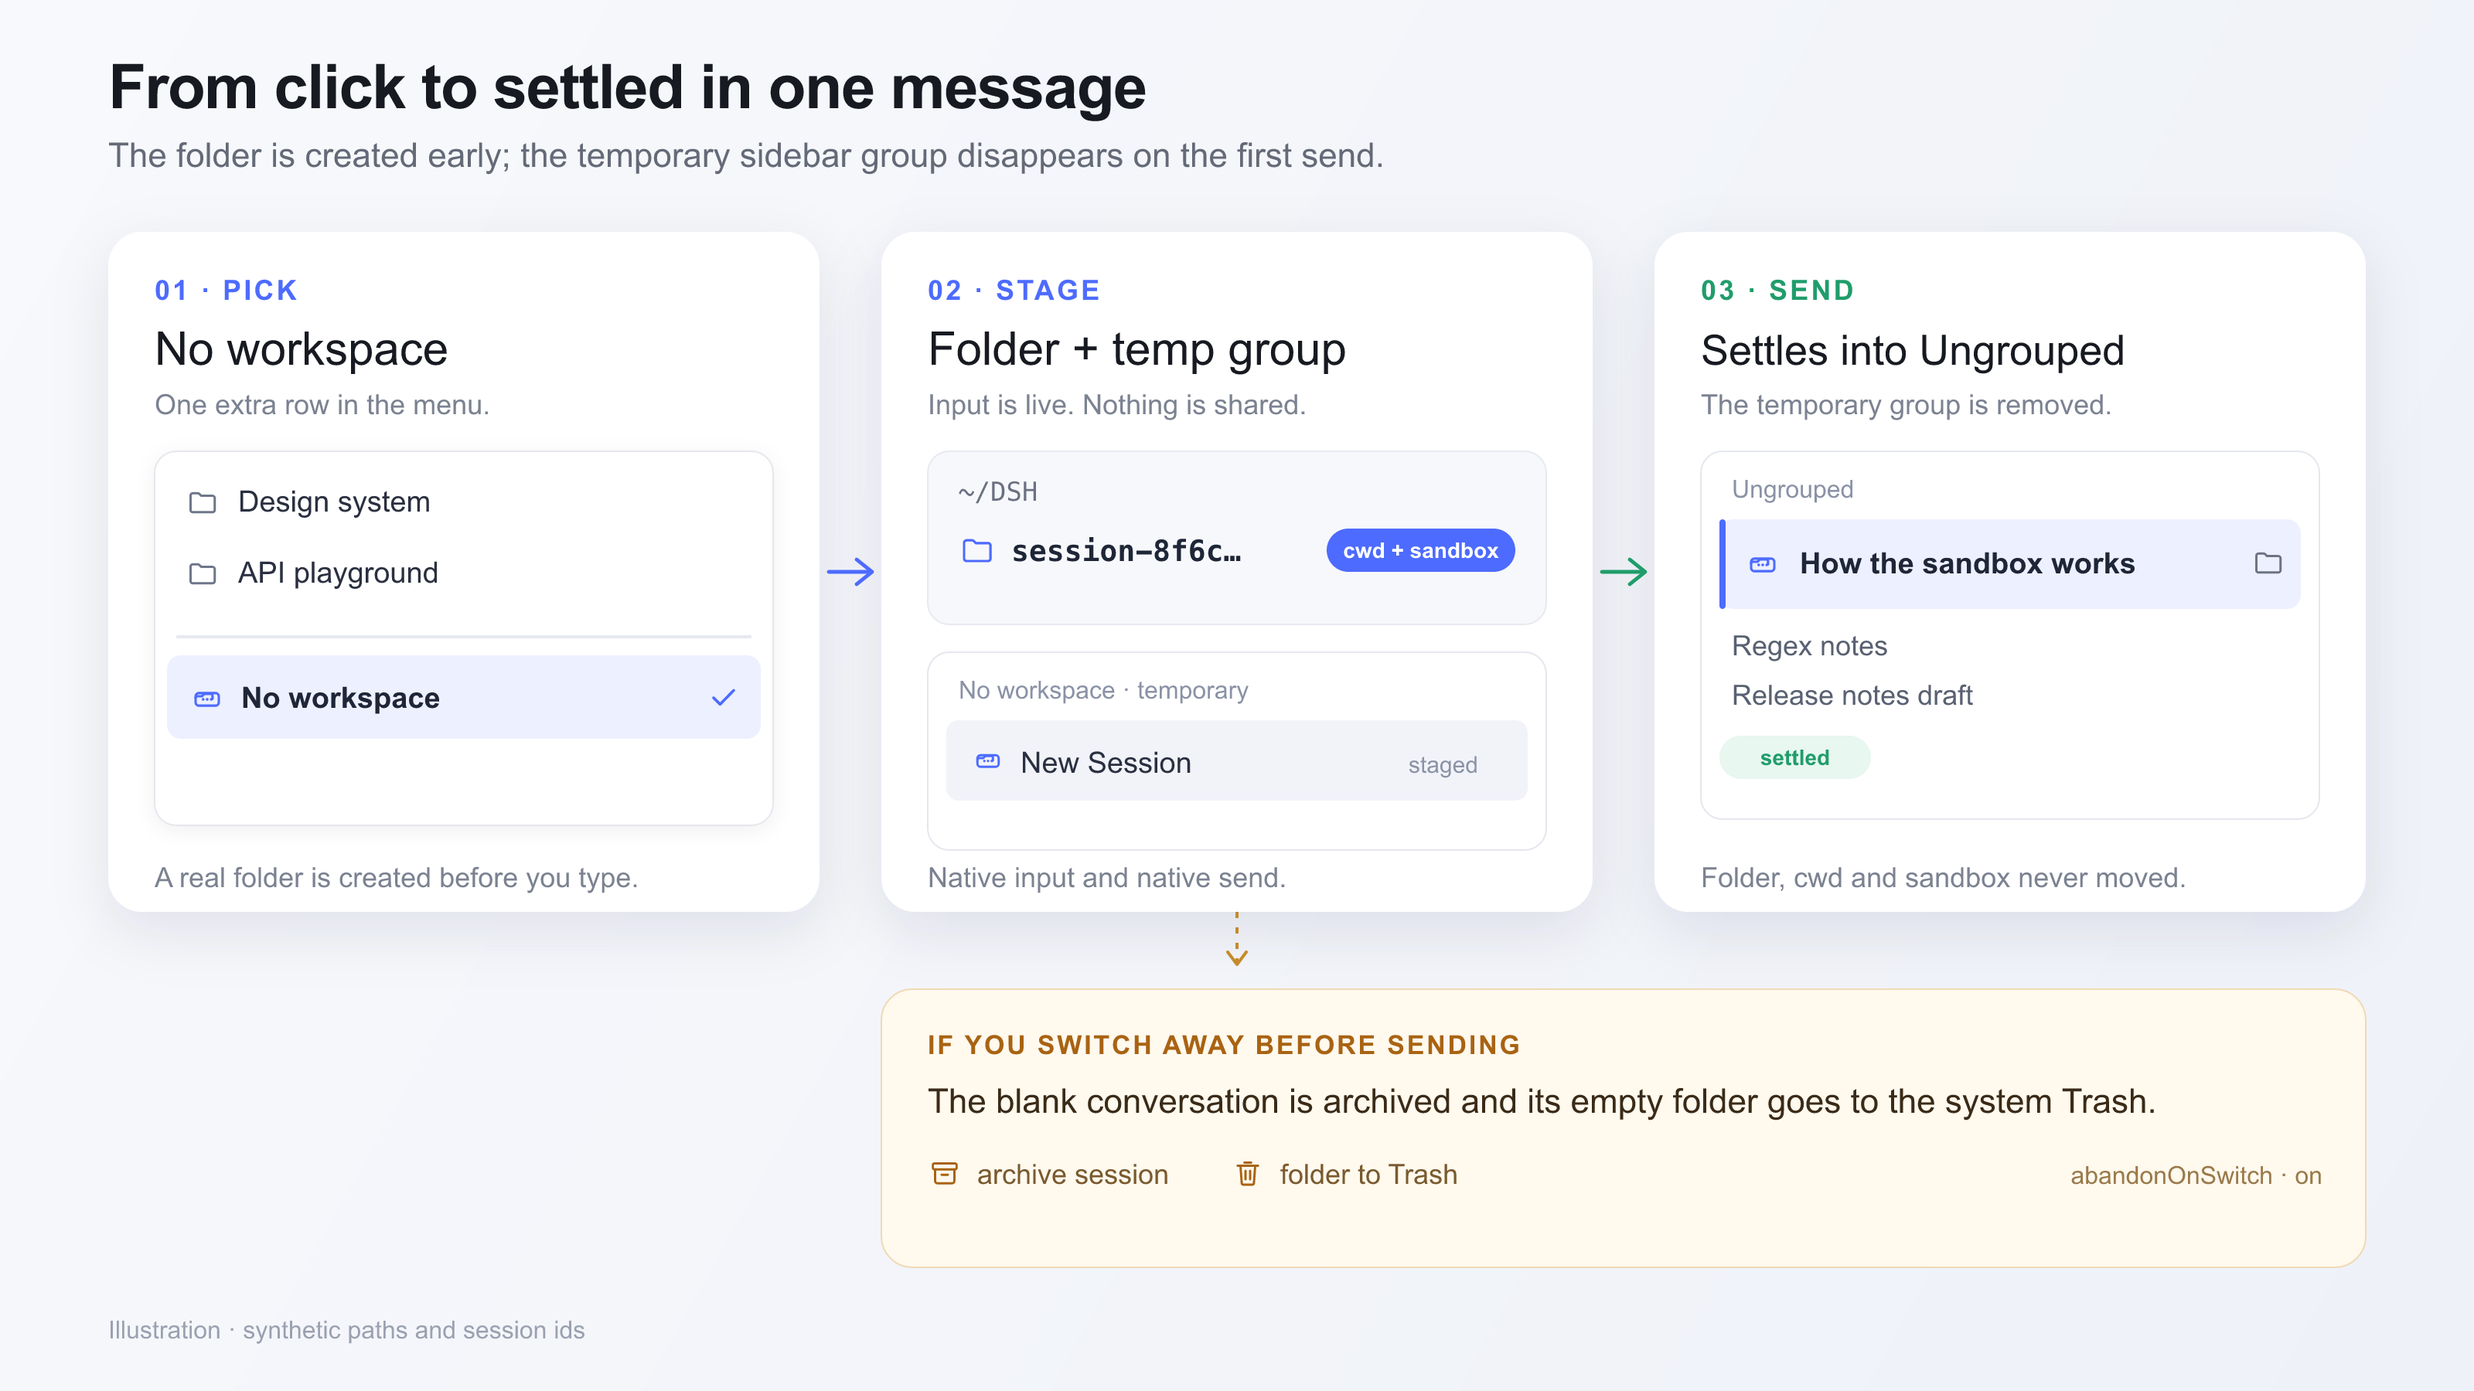
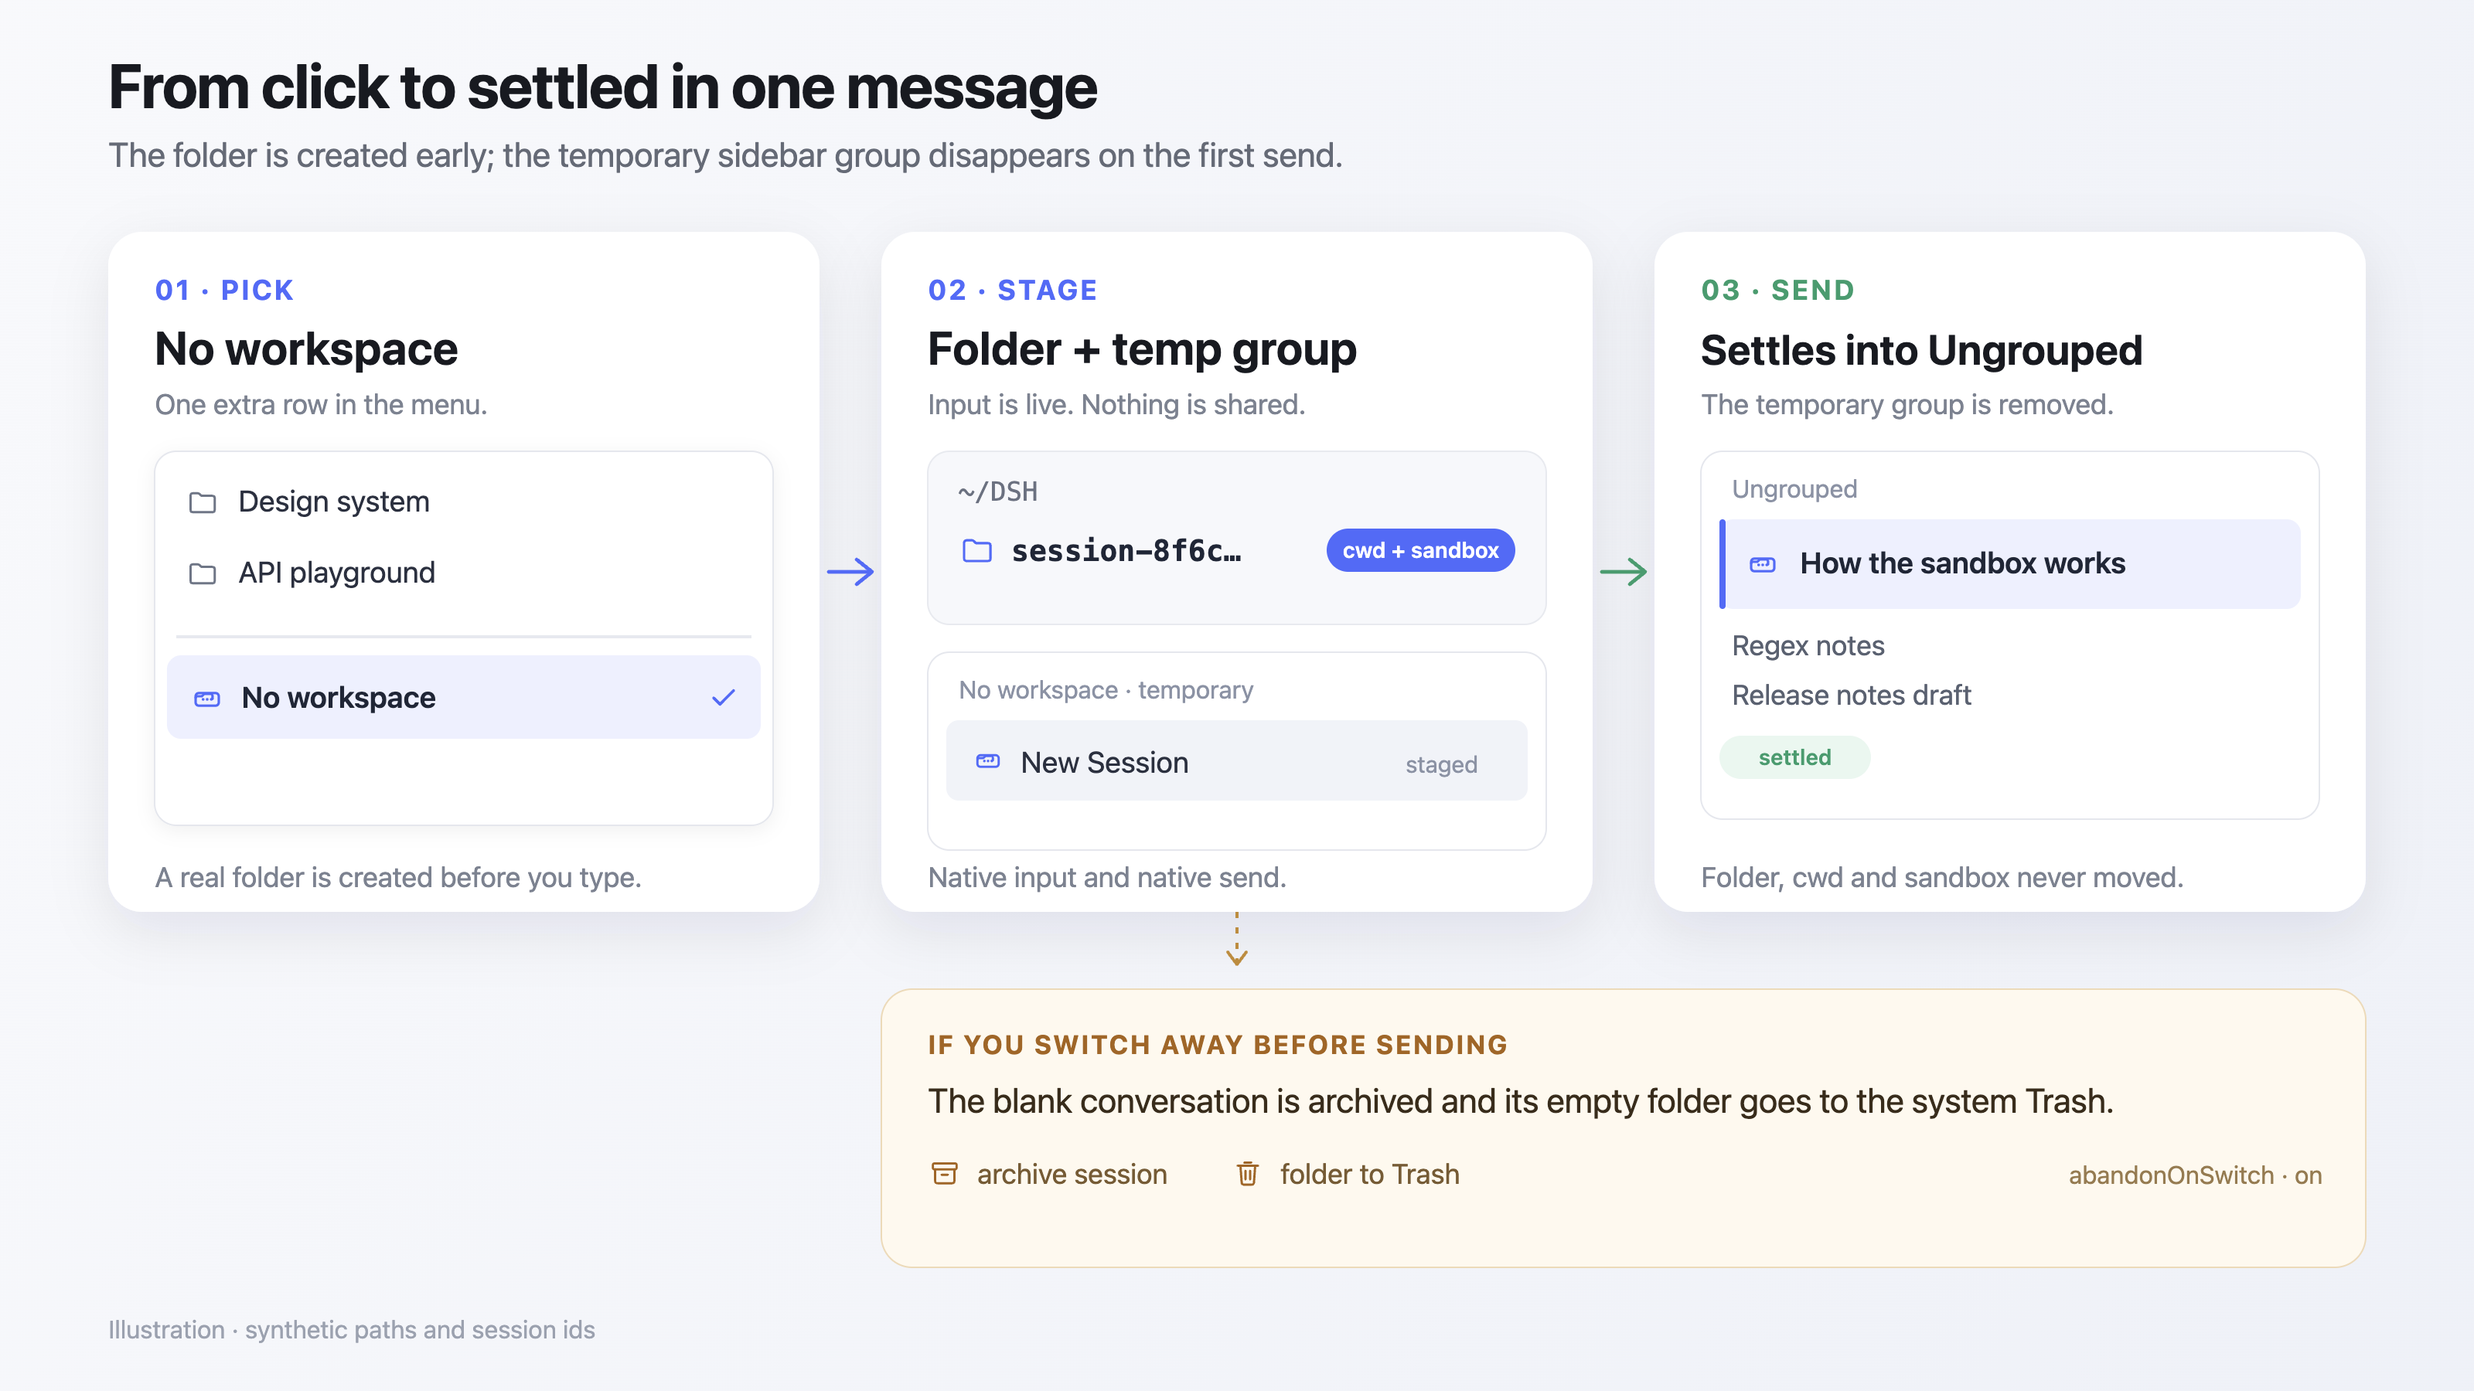
Remove the conversation-row folder badge
Settled scratch conversations now render exactly like any other
Ungrouped row: the plugin no longer registers the
sidebar.session.row.trailing seat.

- drop RowBadge, its slot registration and the rowBadge setting
- drop the rowBadge host config field and patch default
- keep isScratchCwd and IconFolder for the menu and manager
- update render/host tests, README, DESIGN and the doc art
- bump to 0.3.0

diff --git a/client.js b/client.js
@@ -1,13 +1,11 @@
 /**
  * Session autospace — browser half.
  *
- * Three registrations:
+ * Two registrations:
  * - `conversation.hero.workspace` (single): the workspace menu shown by the
  *   blank-session hero. It lists the real Workspaces, keeps the shipped
  *   "Add workspace…" action, and adds "No workspace", which asks the Host for a
  *   scratch session and opens it.
- * - `sidebar.session.row.trailing` (list): a folder mark on rows whose cwd is a
- *   scratch folder, so a settled conversation still says where it lives.
  * - `plugins.bundle.config` (keyed by the package name): the settings page —
  *   working path, feature switches, and the scratch-conversation manager.
  *
@@ -65,8 +63,6 @@ window.__ModuleLoader__.load({
       'toggle.pickerEntry.desc': 'Adds "No workspace" to the workspace menu. Turned off, the DSH menu comes back unchanged.',
       'toggle.rememberPick': 'Remember the last choice',
       'toggle.rememberPick.desc': 'After you pick "No workspace", New Session keeps opening scratch conversations until you pick a real workspace. A conversation that already belongs to a real workspace still keeps New Session there.',
-      'toggle.rowBadge': 'Folder mark on conversation rows',
-      'toggle.rowBadge.desc': 'Shows a folder icon after the time on conversations whose working folder is a scratch folder.',
       'toggle.management': 'Conversation manager',
       'toggle.management.desc': 'Shows the scratch-conversation manager on this page.',
       'toggle.trashOnDelete': 'Move folders to the Trash',
@@ -217,8 +213,6 @@ window.__ModuleLoader__.load({
       'toggle.pickerEntry.desc': '在工作区菜单里加入「不指定工作区」。关闭后 DSH 原菜单原样回来。',
       'toggle.rememberPick': '记住上次选择',
       'toggle.rememberPick.desc': '选过「不指定工作区」后，点「新建会话」会继续开一个临时会话，直到你重新选择普通工作区；当前对话本身属于某个工作区时，新建仍留在该工作区。',
-      'toggle.rowBadge': '会话行文件夹标记',
-      'toggle.rowBadge.desc': '在临时空间会话的行尾时间后显示一个文件夹图标。',
       'toggle.management': '会话管理区',
       'toggle.management.desc': '在本页显示临时会话管理区。',
       'toggle.trashOnDelete': '删除时回收文件夹',
@@ -1638,30 +1632,6 @@ window.__ModuleLoader__.load({
       }
     }
 
-    // ------------------------------------------------------------ row badge ---
-
-    /**
-     * Folder mark after the row's time for conversations living in a scratch
-     * folder. The slot hides trailing icons on hover, so this stays non-interactive.
-     * @param props - `sessionId` plus the standard sessions hook.
-     * @returns the mark, or null.
-     */
-    function RowBadge(props) {
-      const { sessionId } = props
-      const cwd = props.useSessions(state => state.byId[sessionId]?.cwd)
-      const status = useStore().status
-      if (!isScratchCwd(cwd)) return null
-      return h('span', {
-        title: cwd,
-        'aria-hidden': 'true',
-        style: {
-          display: 'inline-flex',
-          alignItems: 'center',
-          color: 'var(--dsw-alias-label-secondary)',
-        },
-      }, h(IconFolder, { size: 14 }))
-    }
-
     // ------------------------------------------------------------ page atoms ---
 
     /**
@@ -2325,14 +2295,6 @@ window.__ModuleLoader__.load({
         })
         : null,
       h(FeatureRow, {
-        key: 'rowBadge',
-        title: t('toggle.rowBadge'),
-        description: t('toggle.rowBadge.desc'),
-        checked: config?.rowBadge !== false,
-        disabled: busyAction || state.saving || status.caps?.configEditor === false,
-        onChange: (next) => { void toggleFeature('rowBadge', next) },
-      }),
-      h(FeatureRow, {
         key: 'management',
         title: t('toggle.management'),
         description: t('toggle.management.desc'),
@@ -2766,7 +2728,7 @@ window.__ModuleLoader__.load({
         // tables above keep rendering the same text.
       }
 
-      const handles = { picker: null, badge: null, page: null }
+      const handles = { picker: null, page: null }
       const watched = new Map()
 
       /**
@@ -2775,7 +2737,6 @@ window.__ModuleLoader__.load({
       function syncSlots() {
         const config = store.get().status?.config
         const wantPicker = config === undefined || config.pickerEntry !== false
-        const wantBadge = config === undefined || config.rowBadge !== false
 
         if (wantPicker && handles.picker === null) {
           handles.picker = ctx.slots.inject('conversation.hero.workspace', () => ctx.slots.register({
@@ -2785,17 +2746,6 @@ window.__ModuleLoader__.load({
         } else if (!wantPicker && handles.picker !== null) {
           handles.picker()
           handles.picker = null
-        }
-
-        if (wantBadge && handles.badge === null) {
-          handles.badge = ctx.slots.inject('sidebar.session.row.trailing', () => ctx.slots.register({
-            name: 'sidebar.session.row.trailing',
-            id: 'session-autospace',
-            order: 0,
-          }, RowBadge))
-        } else if (!wantBadge && handles.badge !== null) {
-          handles.badge()
-          handles.badge = null
         }
       }
 

diff --git a/index.js b/index.js
@@ -62,7 +62,6 @@ const DEFAULTS = {
   rememberPick: true,
   management: true,
   trashOnDelete: true,
-  rowBadge: true,
   reuseBlank: true,
   abandonOnSwitch: true,
   autoReclaimHours: 24,
@@ -115,7 +114,6 @@ export function normalizeConfig(raw) {
     rememberPick: bool(source.rememberPick, DEFAULTS.rememberPick),
     management: bool(source.management, DEFAULTS.management),
     trashOnDelete: bool(source.trashOnDelete, DEFAULTS.trashOnDelete),
-    rowBadge: bool(source.rowBadge, DEFAULTS.rowBadge),
     reuseBlank: bool(source.reuseBlank, DEFAULTS.reuseBlank),
     abandonOnSwitch: bool(source.abandonOnSwitch, DEFAULTS.abandonOnSwitch),
     autoReclaimHours: Number.isFinite(hours) ? Math.min(8760, Math.max(0, Math.round(hours))) : DEFAULTS.autoReclaimHours,

diff --git a/README.en.md b/README.en.md
@@ -60,7 +60,7 @@ The menu is still DSH's workspace menu: existing workspaces, a separator, then *
 
 - **Pick**: create the `session-<uuid>` folder, a temporary workspace, and a blank conversation.
 - **Stage**: the input bar is live and a temporary **No workspace** group appears at the top of the sidebar. If an **Ungrouped** group already exists, both are visible.
-- **Settle**: the first message is sent; the temporary group disappears and the conversation moves into **Ungrouped** with a folder mark on its row.
+- **Settle**: the first message is sent; the temporary group disappears and the conversation moves into **Ungrouped**, exactly like any other ungrouped conversation.
 - **Abandon**: switch away before sending; the blank conversation is archived and its empty folder goes to the system Trash (unless `abandonOnSwitch` is off).
 
 ### Settings: path, switches, manager
@@ -121,7 +121,7 @@ Useful when iterating on the source; for a normal install use the GitHub command
 
 ```sh
 pnpm pack
-dsh plugin --profile <profile> add ./dsh-session-autospace-0.2.0.tgz
+dsh plugin --profile <profile> add ./dsh-session-autospace-0.3.0.tgz
 ```
 
 ### Upgrade and remove
@@ -191,7 +191,7 @@ Host cleanup retries with backoff (200 / 800 / 2000 ms, up to three attempts), t
 
 ![The browser half and the Host half talk over same-origin POST; the Host uses DSH services to touch folders, sessions, and the system Trash](docs/images/architecture.png)
 
-The browser half only renders slots: the workspace menu, the settings page, the conversation-row badge, and the `uiWorkspace.startSession` wrapper. It never touches the filesystem and makes no remote requests.
+The browser half only renders host slots (the workspace menu and the settings page) and wraps `uiWorkspace.startSession`. It never touches the filesystem and makes no remote requests.
 
 The Host half is a single-file Cordis plugin organised as `config`, `paths`, `scratch`, `settle`, `trash`, `inventory`, `routes`, `sweep`, and `log`. It has zero runtime dependencies and uses only `node:*`. Every registration is held by `ctx.effect` / `ctx.inject`; a missing service disables a capability instead of crashing.
 
@@ -218,7 +218,6 @@ Every field is on **Settings → Plugins → Session autospace**. Defaults also 
 | `rememberPick` | Remember the last choice | `true` | Off returns New Session to DSH's "current workspace, else most recent" |
 | `management` | Conversation manager | `true` | Off hides the whole manager card |
 | `trashOnDelete` | Move folders to the Trash | `true` | Off makes delete archive-only; the folder stays |
-| `rowBadge` | Folder mark on conversation rows | `true` | Off unregisters the row-trailing slot |
 | `reuseBlank` | Reuse an untouched conversation | `true` | Off creates a new folder on every click |
 | `abandonOnSwitch` | Discard on switching away | `true` | Off removes the registration only; session and folder stay |
 | `autoReclaimHours` | Reclaim untouched conversations | `24` | `0` disables auto-reclaim; range 0–8760 hours |
@@ -237,7 +236,6 @@ Default patch:
         rememberPick: true
         management: true
         trashOnDelete: true
-        rowBadge: true
         reuseBlank: true
         abandonOnSwitch: true
         autoReclaimHours: 24
@@ -347,7 +345,7 @@ There is no exact-version gate and no `@deepseek-ai/*` entry in `peerDependencie
 | System Trash unavailable | Delete is disabled; archive remains; UI points to Show in Finder |
 | `session/event` | Client blank observation and the activation sweep still settle |
 | `retainInfo` | "Discard on switching away" is off; the activation sweep handles cleanup |
-| `uiWorkspace` or a changed `startSession` shape | No wrapper is installed; New Session keeps DSH's behaviour; menu, settings, and badge still work |
+| `uiWorkspace` or a changed `startSession` shape | No wrapper is installed; New Session keeps DSH's behaviour; menu and settings still work |
 | Memory file unreadable / unwritable | Unreadable means no memory; a failed write is logged, and the choice still applies for this page |
 | Host slot contract changes | Nothing renders and one log line is written; the built-in menu is unaffected |
 
@@ -369,7 +367,7 @@ The design boundaries and trade-offs are in [docs/DESIGN.md](docs/DESIGN.md).
 ```text
 dsh-session-autospace/
 ├── index.js              # Host half: routes, staged table, sweep, Trash
-├── client.js             # Browser half: menu, settings, row badge, startSession wrapper
+├── client.js             # Browser half: menu, settings, startSession wrapper
 ├── cordis.patch.yml      # default config row
 ├── package.json          # dsh.bundle + dsh.client manifest
 ├── locale/               # bilingual plugin-page metadata
@@ -412,7 +410,7 @@ npm run test:render
 dsh plugin --profile <profile> remove dsh-session-autospace
 ```
 
-- Removing the plugin restores the menu, settings page, row badge, and New Session behaviour. Existing conversations remain normal DSH conversations, and their folders remain.
+- Removing the plugin restores the menu, settings page, and New Session behaviour. Existing conversations remain normal DSH conversations, and their folders remain.
 - For a full cleanup, archive or delete the scratch conversations you no longer need, then remove confirmed-unused directories under `<working path>/session-*`.
 - Optional memory file: `$DSH_HOME/session-autospace/last-pick-<profile>.json`.
 - Do not delete a folder that a conversation still references: the conversation shows **Folder missing**, but its messages are not lost. Rebuild the folder from the manager or keep it as history.

diff --git a/docs/DESIGN.md b/docs/DESIGN.md
@@ -25,7 +25,7 @@
 | --- | --- | --- | --- | --- |
 | 空闲 | 无 | 无 | 不变 | — |
 | 暂存 | 已创建、空白、无消息 | 临时登记，标题为「不指定工作区」 | 顶部临时分组 + New Session | `<工作路径>/session-<uuid>` |
-| 落定 | 同一会话，已有首轮 | 已撤销 | 「未分组」普通行 + 文件夹标记 | 同一文件夹 |
+| 落定 | 同一会话，已有首轮 | 已撤销 | 「未分组」普通行 | 同一文件夹 |
 | 放弃 | 空白会话被归档 | 已撤销 | 分组与 New Session 消失 | 空目录进入废纸篓（可关闭） |
 
 暂存是唯一有妥协的状态：侧栏顶部会多一个临时分组。它在首条消息发出、用户切走或插件清扫后消失。
@@ -65,7 +65,7 @@ DSH 没有为「新建会话」提供插槽：侧栏、标题栏和 `session.new
 | 部分 | 职责 | 不做什么 |
 | --- | --- | --- |
 | `index.js`（Host） | 创建目录、登记/撤销工作区、收尾、清扫、清单、废纸篓、配置写入 | 不读消息内容，不绕过 DSH 服务直接改会话 |
-| `client.js`（Browser） | 菜单、设置页、行标记、`startSession` 包装 | 不碰文件系统，不发远程请求 |
+| `client.js`（Browser） | 菜单、设置页、`startSession` 包装 | 不碰文件系统，不发远程请求 |
 
 浏览器只通过同源 `POST /api/session-autospace/*` 与 Host 通信。所有路由先过 DSH 的同源 admission fence，再解析 JSON；成功返回 `{ok:true, value}`，失败返回 `{ok:false, code, message}`。
 
